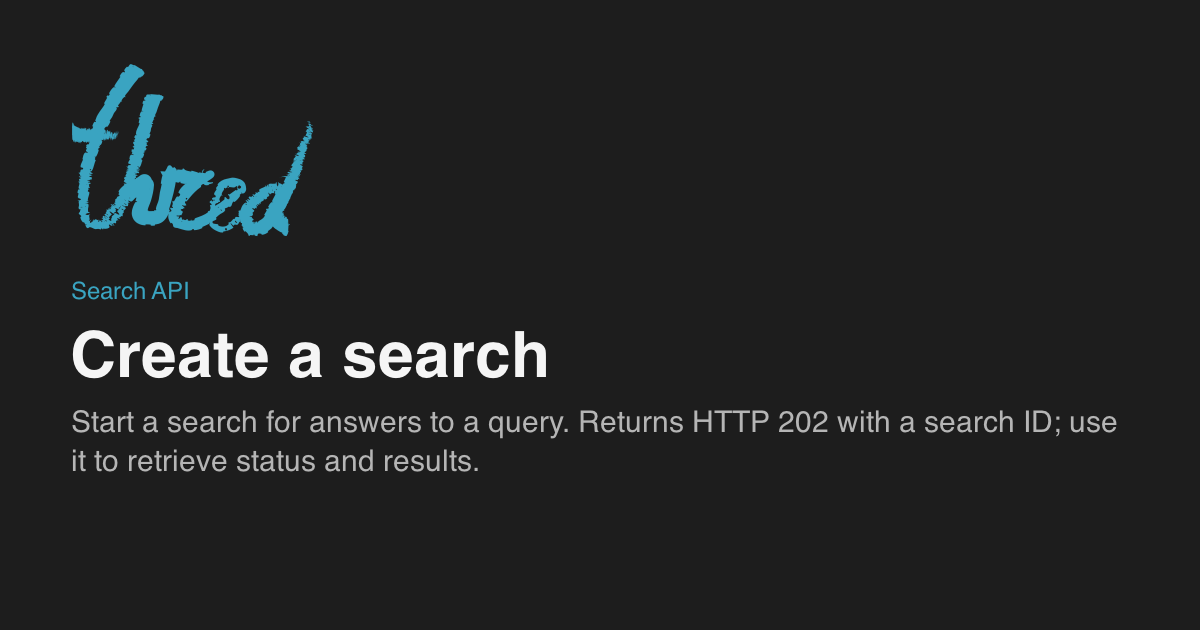
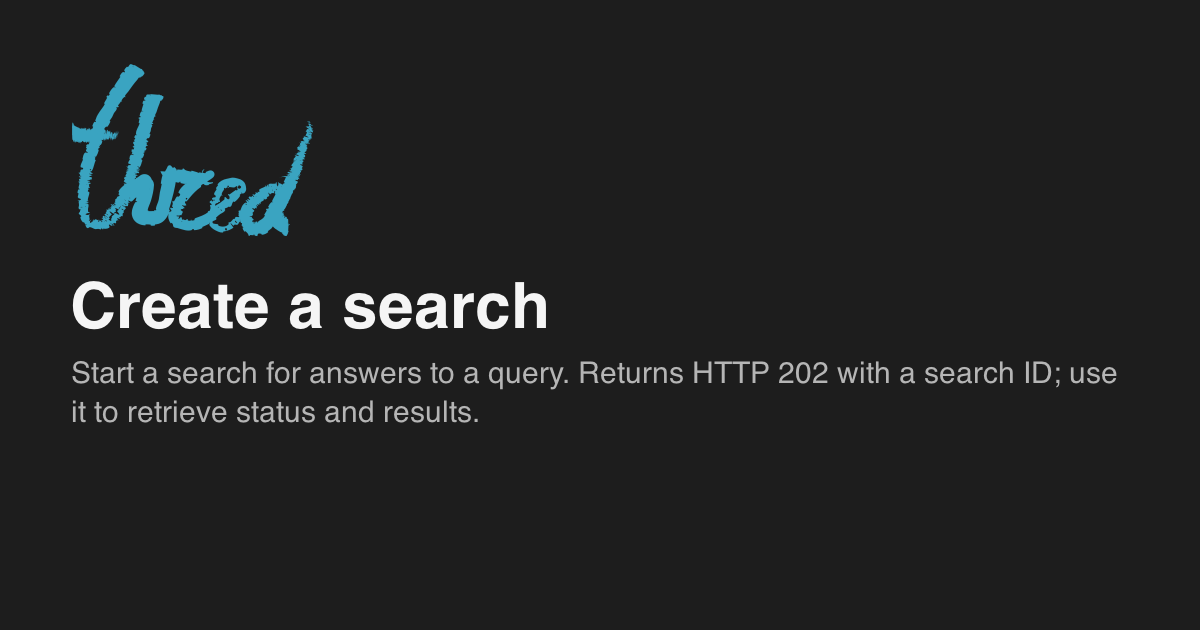
Remove category labels from social previews

Changed region(s): [[0.0617, 0.4222, 0.925, 0.6937], [0.0617, 0.7238, 0.4008, 0.754]]

diff --git a/README.md b/README.md
@@ -55,7 +55,7 @@ Use `thred-phone-data/tailwind.config.ts`, `src/app/globals.css`, `PowerWorkspac
 
 `logo/thred.svg` is the supplied `Group 289725.svg`, unchanged, used for both themes and the favicon. Preserve its original teal fill and 47:34 proportions.
 
-Social previews keep each page's title, description, and navigation group alongside a larger original Thred logo. `scripts/generate-og.cjs` renders 1200×630 cards in `images/og/` using Instrument Sans and the dashboard's dark background, then sets each navigable page's `og:image` frontmatter. Twitter inherits that image. Run `npm ci` once and `npm run og:generate` after editing titles, descriptions, API descriptions, navigation, or the logo. The font and its SIL Open Font License are in `scripts/assets/`.
+Social previews keep each page's title and description alongside a larger original Thred logo, without a category label. `scripts/generate-og.cjs` renders 1200×630 cards in `images/og/` using Instrument Sans and the dashboard's dark background, then sets each navigable page's `og:image` frontmatter. Twitter inherits that image. Run `npm ci` once and `npm run og:generate` after editing titles, descriptions, API descriptions, navigation, or the logo. The font and its SIL Open Font License are in `scripts/assets/`.
 
 Maple provides the full-height sidebar with the logo, search, and navigation inside it. Keep its native layout and a consistent 48px content inset; do not add the sidebar width to content padding. Style the active page through `aria-current="page"`. Check introduction, quickstart, and an endpoint page in both themes and at narrow widths after styling changes, including the hosted layout: the CLI preview can lag behind Mintlify's current renderer.
 
